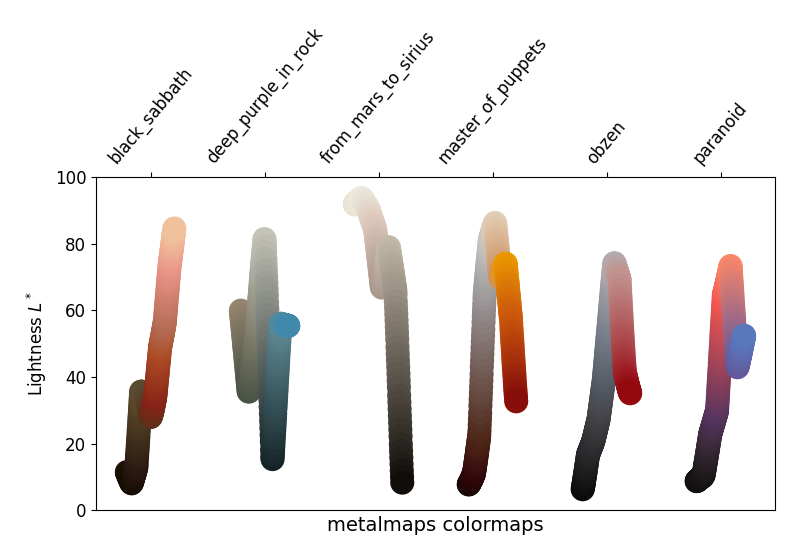
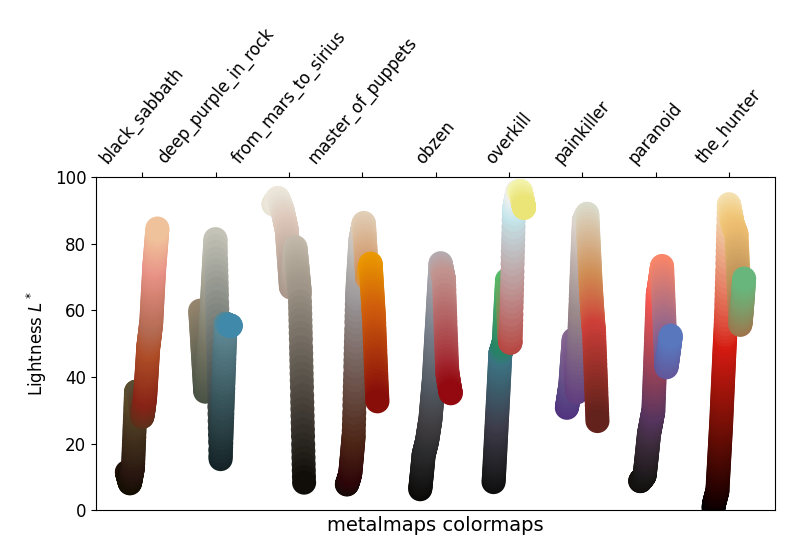
more examples for README

diff --git a/scripts/plot_lightness.py b/scripts/plot_lightness.py
@@ -20,7 +20,10 @@ cmaps["metalmaps"] = [
     "metalmaps.from_mars_to_sirius",
     "metalmaps.master_of_puppets",
     "metalmaps.obzen",
+    "metalmaps.overkill",
+    "metalmaps.painkiller",
     "metalmaps.paranoid",
+    "metalmaps.the_hunter",
 ]
 
 mpl.rcParams.update({"font.size": 12})
@@ -29,7 +32,7 @@ mpl.rcParams.update({"font.size": 12})
 #  _DSUBS = {'Perceptually Uniform Sequential': 5, 'Sequential': 6,
 #            'Sequential (2)': 6, 'Diverging': 6, 'Cyclic': 3,
 #            'Qualitative': 4, 'Miscellaneous': 6}
-_DSUBS = {"metalmaps": 6}
+_DSUBS = {"metalmaps": 9}
 
 # Spacing between the colormaps of a subplot
 #  _DC = {'Perceptually Uniform Sequential': 1.4, 'Sequential': 0.7,

diff --git a/README.md b/README.md
@@ -99,10 +99,22 @@ Here are some examples:
 
 ![](images/obzen.jpg)
 
+### Overkill (_Motörhead_)
+
+![](images/overkill.jpg)
+
+### Painkiller (_Judas Priest_)
+
+![](images/painkiller.jpg)
+
 ### Paranoid (_Black Sabbath_)
 
 ![](images/paranoid.jpg)
 
+
+### The Hunter (_Mastodon_)
+
+![](images/the_hunter.jpg)
 
 
 
